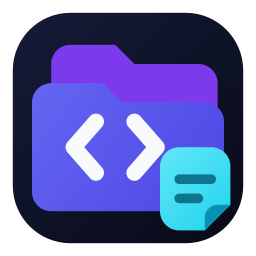
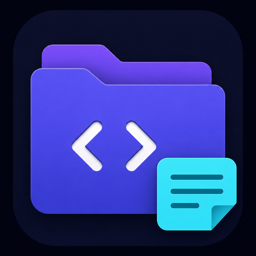
功能：使用代码目录笔记图标

diff --git a/README.md b/README.md
@@ -12,10 +12,10 @@ Codebase Notes 给仓库里的文件和目录添加共享备注。VS Code 和 Je
 
 ## 下载
 
-当前版本：`0.1.3`
+当前版本：`0.1.4`
 
-- [JetBrains 插件（ZIP）](https://github.com/joeljhou/codebase-notes/releases/download/v0.1.3/codebase-notes-jetbrains-0.1.3.zip)
-- [VS Code / TRAE CN 扩展（VSIX）](https://github.com/joeljhou/codebase-notes/releases/download/v0.1.3/codebase-notes-vscode-0.1.3.vsix)
+- [JetBrains 插件（ZIP）](https://github.com/joeljhou/codebase-notes/releases/download/v0.1.4/codebase-notes-jetbrains-0.1.4.zip)
+- [VS Code / TRAE CN 扩展（VSIX）](https://github.com/joeljhou/codebase-notes/releases/download/v0.1.4/codebase-notes-vscode-0.1.4.vsix)
 
 历史版本和更新说明见 [GitHub Releases](https://github.com/joeljhou/codebase-notes/releases)。
 